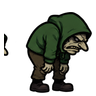
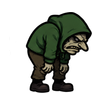
Caçada: artes dos inimigos (Ping, Troll, Spam, Moderador, Feiticeira, Sombra)
Cada estado usa sua pose (Troll prepara/investe/cansa, Moderador guarda/
ergue/golpeia, Feiticeira conjura/some, Spam agacha antes de pular).
Emoji Raivoso continua desenhado por código até a arte chegar.

Claude-Session: https://claude.ai/code/session_01Kwu7EZ2USUr7Psx5HFUdHq

Changed region(s): [[0.0312, 0.3438, 0.0938, 0.5938]]

diff --git a/js/cacada.js b/js/cacada.js
@@ -56,7 +56,7 @@
 
     // ------------------------------------------------------------- artes
     // Artes definitivas (docs/ASSETS-CACADA.md). O que ainda não tem arte continua
-    // desenhado por código (Ping, Emoji, Troll, Spam, Moderador, Sombra).
+    // desenhado por código (hoje só o Emoji Raivoso).
     const serie = (base, n) => Array.from({ length: n }, (_, i) => `${base}-${String(i + 1).padStart(2, '0')}.png`);
     const AREAS_ARTE = ['telhados', 'beco', 'fabrica', 'torre', 'covil'];
     const ARQUIVOS = {
@@ -86,7 +86,20 @@
         bug: serie('inimigos/bug', 2),
         drone: serie('inimigos/drone', 2),
         droneMirar: ['inimigos/drone-mirar.png'],
-        feiticeira: ['ronda/inimigos/feiticeira-01.png', 'ronda/inimigos/feiticeira-02.png', 'ronda/inimigos/feiticeira-03.png', 'ronda/inimigos/feiticeira-04.png'],
+        feiticeira: serie('inimigos/feiticeira', 4),
+        feiticeiraConjurar: ['inimigos/feiticeira-conjurar.png'],
+        feiticeiraSumir: ['inimigos/feiticeira-sumir.png'],
+        ping: serie('inimigos/ping', 2),
+        trollAndar: serie('inimigos/troll-andar', 4),
+        trollPreparar: ['inimigos/troll-preparar.png'],
+        trollInvestida: serie('inimigos/troll-investida', 2),
+        trollCansado: ['inimigos/troll-cansado.png'],
+        spam: serie('inimigos/spam', 3),
+        modGuarda: serie('inimigos/moderador-guarda', 2),
+        modErguer: ['inimigos/moderador-erguer.png'],
+        modGolpe: ['inimigos/moderador-golpe.png'],
+        modRecuperar: ['inimigos/moderador-recuperar.png'],
+        sombra: serie('inimigos/sombra', 2),
         // Chefes.
         cmOcioso: serie('chefes/capanga-mor-ocioso', 2),
         cmPreparar: ['chefes/capanga-mor-preparar.png'],
@@ -156,8 +169,8 @@
         ARQUIVOS[`meio_${a}`] = [`areas/${a}/meio.png`];
         ARQUIVOS[`fundo_${a}`] = [`areas/${a}/fundo.jpg`];
     }
-    // As artes olham para a direita, menos a feiticeira antiga da Ronda.
-    const OLHA_ESQUERDA = new Set(['feiticeira']);
+    // As artes olham para a direita.
+    const OLHA_ESQUERDA = new Set();
     const ARTE = {};
     for (const [nome, lista] of Object.entries(ARQUIVOS)) {
         ARTE[nome] = lista.map((arquivo) => {
@@ -1085,6 +1098,12 @@
             }
         },
         ping(e, cx, cy, flash) {
+            const caca = e.estado === 'caca';
+            if (caca) {
+                ctx.fillStyle = 'rgba(255, 60, 60, 0.3)';
+                ctx.beginPath(); ctx.arc(cx, cy, 15, 0, Math.PI * 2); ctx.fill();
+            }
+            if (spriteInimigo('ping', visual.tempo * (caca ? 16 : 9) + e.fase * 3, cx, cy, 30, 32, e.dir < 0, flash)) return;
             const asa = Math.sin(visual.tempo * 30 + e.fase * 9) * 5;
             ctx.fillStyle = flash ? '#fff' : '#3a0d14';
             ctx.beginPath(); ctx.moveTo(cx - 5, cy); ctx.lineTo(cx - 14, cy - 4 - asa); ctx.lineTo(cx - 9, cy + 3); ctx.fill();
@@ -1128,6 +1147,8 @@
             const treme = e.estado === 'preparar' && !calmo ? Math.sin(visual.tempo * 70) * 1.5 : 0;
             const x = cx + treme;
             const base = e.y + e.h - visual.cam.y;
+            const quadro = { preparar: ['trollPreparar', 0], investida: ['trollInvestida', visual.tempo * 12], cansado: ['trollCansado', 0] }[e.estado] || ['trollAndar', visual.tempo * 8 + e.fase * 4];
+            if (spriteInimigo(quadro[0], quadro[1], x, base + 1, 40, 93, e.dir < 0, flash)) return;
             if (e.estado === 'investida') {
                 ctx.strokeStyle = 'rgba(255, 255, 255, 0.5)';
                 ctx.lineWidth = 2;
@@ -1147,6 +1168,9 @@
             const amassa = e.noChao && e.t < 0.12 ? 3 : 0;
             const x = cx;
             const base = e.y + e.h - visual.cam.y;
+            // 1 parado, 2 agachado (logo antes de pular ou ao pousar), 3 no ar.
+            const agachado = e.noChao && (e.t < 0.12 || e.t > (e.espera || 1) - 0.25);
+            if (spriteInimigo('spam', !e.noChao ? 2 : agachado ? 1 : 0, x, base + 1, 28, 61, e.dir < 0, flash)) return;
             contorno(flash, '#f4f4f4');
             ctx.beginPath(); ctx.rect(x - 9, base - 16 + amassa, 18, 16 - amassa); ctx.fill(); ctx.stroke();
             ctx.beginPath(); ctx.moveTo(x - 9, base - 16 + amassa); ctx.lineTo(x, base - 8); ctx.lineTo(x + 9, base - 16 + amassa); ctx.stroke();
@@ -1180,6 +1204,8 @@
         moderador(e, cx, cy, flash) {
             const base = e.y + e.h - visual.cam.y;
             const d = e.dir;
+            const quadro = { erguer: ['modErguer', 0], golpe: ['modGolpe', 0], recuperar: ['modRecuperar', 0] }[e.estado] || ['modGuarda', visual.tempo * 3];
+            if (spriteInimigo(quadro[0], quadro[1], cx, base + 1, 44, 93, d < 0, flash)) return;
             contorno(flash, '#6d7482');
             ctx.beginPath(); ctx.roundRect(cx - 9, base - 24, 18, 24, 4); ctx.fill(); ctx.stroke();
             ctx.beginPath(); ctx.arc(cx, base - 26, 6, 0, Math.PI * 2); ctx.fill(); ctx.stroke();
@@ -1210,12 +1236,17 @@
                 ctx.fillStyle = 'rgba(255, 79, 216, 0.4)';
                 ctx.beginPath(); ctx.arc(cx + e.dir * 10, cy - 4, 6 + e.t * 10, 0, Math.PI * 2); ctx.fill();
             }
-            if (!spriteInimigo('feiticeira', visual.tempo * 6, cx, cy + 22, 44, 100, OLHA_ESQUERDA.has('feiticeira') ? olhaDireita : !olhaDireita, flash)) {
+            const quadro = e.estado === 'conjurar' ? ['feiticeiraConjurar', 0] : e.estado === 'sumir' || e.estado === 'aparecer' ? ['feiticeiraSumir', 0] : ['feiticeira', visual.tempo * 6];
+            if (!spriteInimigo(quadro[0], quadro[1], cx, cy, 42, 64, OLHA_ESQUERDA.has('feiticeira') ? olhaDireita : !olhaDireita, flash)) {
                 contorno(flash, '#b04dff');
                 ctx.fillRect(cx - e.w / 2, cy - e.h / 2, e.w, e.h);
             }
         },
         sombra(e, cx, cy, flash) {
+            ctx.fillStyle = 'rgba(160, 70, 255, 0.22)';
+            ctx.beginPath(); ctx.arc(cx, cy, 18 + Math.sin(visual.tempo * 5) * 2, 0, Math.PI * 2); ctx.fill();
+            const treme = e.estado === 'preparar' && !calmo ? Math.sin(visual.tempo * 60) * 1.2 : 0;
+            if (spriteInimigo('sombra', visual.tempo * 5, cx + treme, e.y + e.h - visual.cam.y, 46, 125, e.dir < 0, flash)) return;
             const img = quadroDe('cair', 0);
             ctx.globalAlpha *= 0.85;
             ctx.fillStyle = 'rgba(160, 70, 255, 0.25)';

diff --git a/js/main.js b/js/main.js
@@ -262,7 +262,7 @@
     // Cada easter egg: scripts em ordem e o objeto global que abre o jogo.
     const JOGOS = {
         flappy: { scripts: ['js/game-dialog.js?v=5', 'js/flappy-core.js?v=1', 'js/flappy.js?v=4'], global: 'FlappyEnzo' },
-        ronda: { scripts: ['js/game-dialog.js?v=5', 'js/cacada-inimigos.js?v=1', 'js/cacada-core.js?v=5', 'js/cacada-mundo.js?v=3', 'js/cacada.js?v=7'], global: 'CacadaInominavel' },
+        ronda: { scripts: ['js/game-dialog.js?v=5', 'js/cacada-inimigos.js?v=1', 'js/cacada-core.js?v=5', 'js/cacada-mundo.js?v=3', 'js/cacada.js?v=8'], global: 'CacadaInominavel' },
     };
     const carregando = {};
     function abrirJogo(nome) {

diff --git a/degustador.html b/degustador.html
@@ -46,6 +46,6 @@
     <script src="js/auth-widget.js?v=12"></script>
     <script src="js/shelf.js?v=5"></script>
     <script src="js/comic-open.js?v=4"></script>
-    <script src="js/main.js?v=36"></script>
+    <script src="js/main.js?v=37"></script>
 </body>
 </html>

diff --git a/docs/ASSETS-CACADA.md b/docs/ASSETS-CACADA.md
@@ -15,9 +15,11 @@ artes podem seguir as mesmas pastas e tamanhos da primeira leva**; os tamanhos 4
 continuam sendo o ideal, mas não são obrigatórios.
 
 **Ainda faltam** (hoje desenhados por código):
-- Inimigos: **Ping**, **Emoji Raivoso**, **Troll**, **Spam Saltitante**, **Moderador**,
-  **Feiticeira** (a atual é a antiga da Ronda) e a **Sombra do Degustador** (hoje é o Degustador
-  pintado de roxo).
+- Inimigos: **Emoji Raivoso** (`inimigos/emoji-01.png`, `emoji-02.png`) e o quadro
+  `inimigos/ping-caca.png` (Ping perseguindo; hoje usa os quadros normais com um brilho vermelho).
+- **Moderador olhando para a esquerda**: o jogo espelha a arte, e aí "MOD" e "BAN" ficam
+  "DOM" e "NAB". Mande `moderador-*-esq.png` (as mesmas 5 poses viradas, com o texto normal) ou
+  as poses sem texto no escudo e no martelo.
 - ItaloLOL da tela da loja, balão de fala, ícones da loja, caixa das placas.
 - Quadros extras que deixariam as animações mais suaves: `virar`, `frear`, `pousar`, `topo`,
   mais quadros de `parado`/`golpe`/`dash`, `sentar`, `interagir`, `pegou-item`.

diff --git a/docs/PLANO-CACADA.md b/docs/PLANO-CACADA.md
@@ -1,6 +1,6 @@
 # Caçada ao Inominável — metroidvania do Degustador da Noite
 
-Status: **v2 jogável com a primeira leva de artes definitivas** (Degustador, Inominável, chefes, Capanga, Drone, Bug, cenários, objetos e HUD; o que falta está em `docs/ASSETS-CACADA.md`). Inspirado em Hollow Knight e
+Status: **v2 jogável com a primeira leva de artes definitivas** (Degustador, Inominável, chefes, todos os inimigos menos o Emoji, cenários, objetos e HUD; o que falta está em `docs/ASSETS-CACADA.md`). Inspirado em Hollow Knight e
 Silksong (pesquisa em `docs/PESQUISA-HOLLOW-KNIGHT.md`). Abre ao clicar no título da página do
 Degustador. A v1 (6 fases soltas, estilo Super Meat Boy) virou o mundo de salas abaixo.
 
